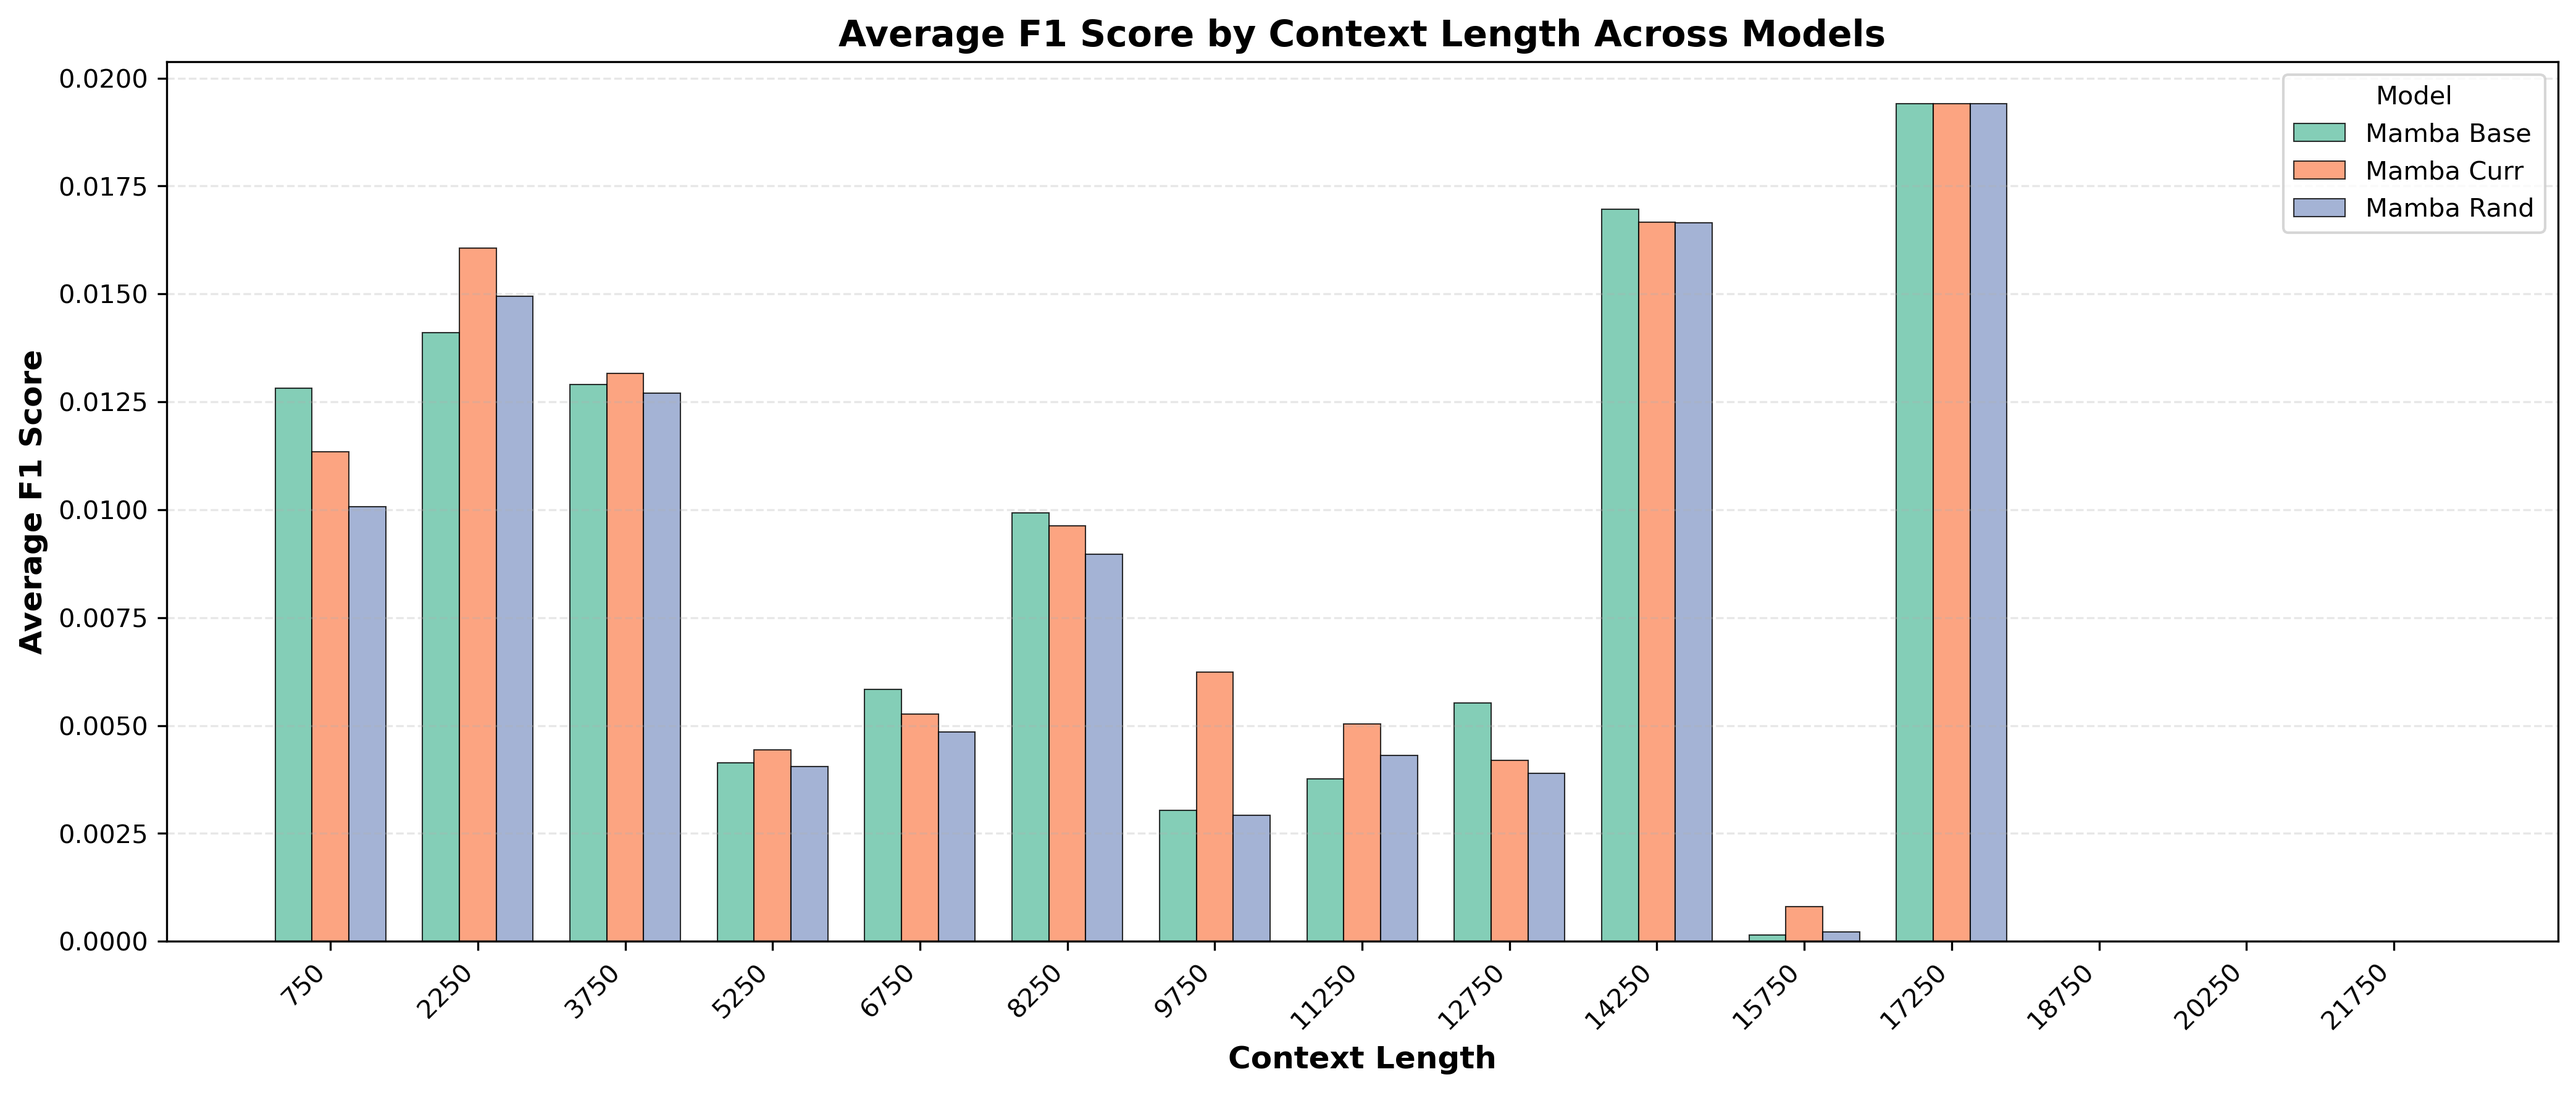
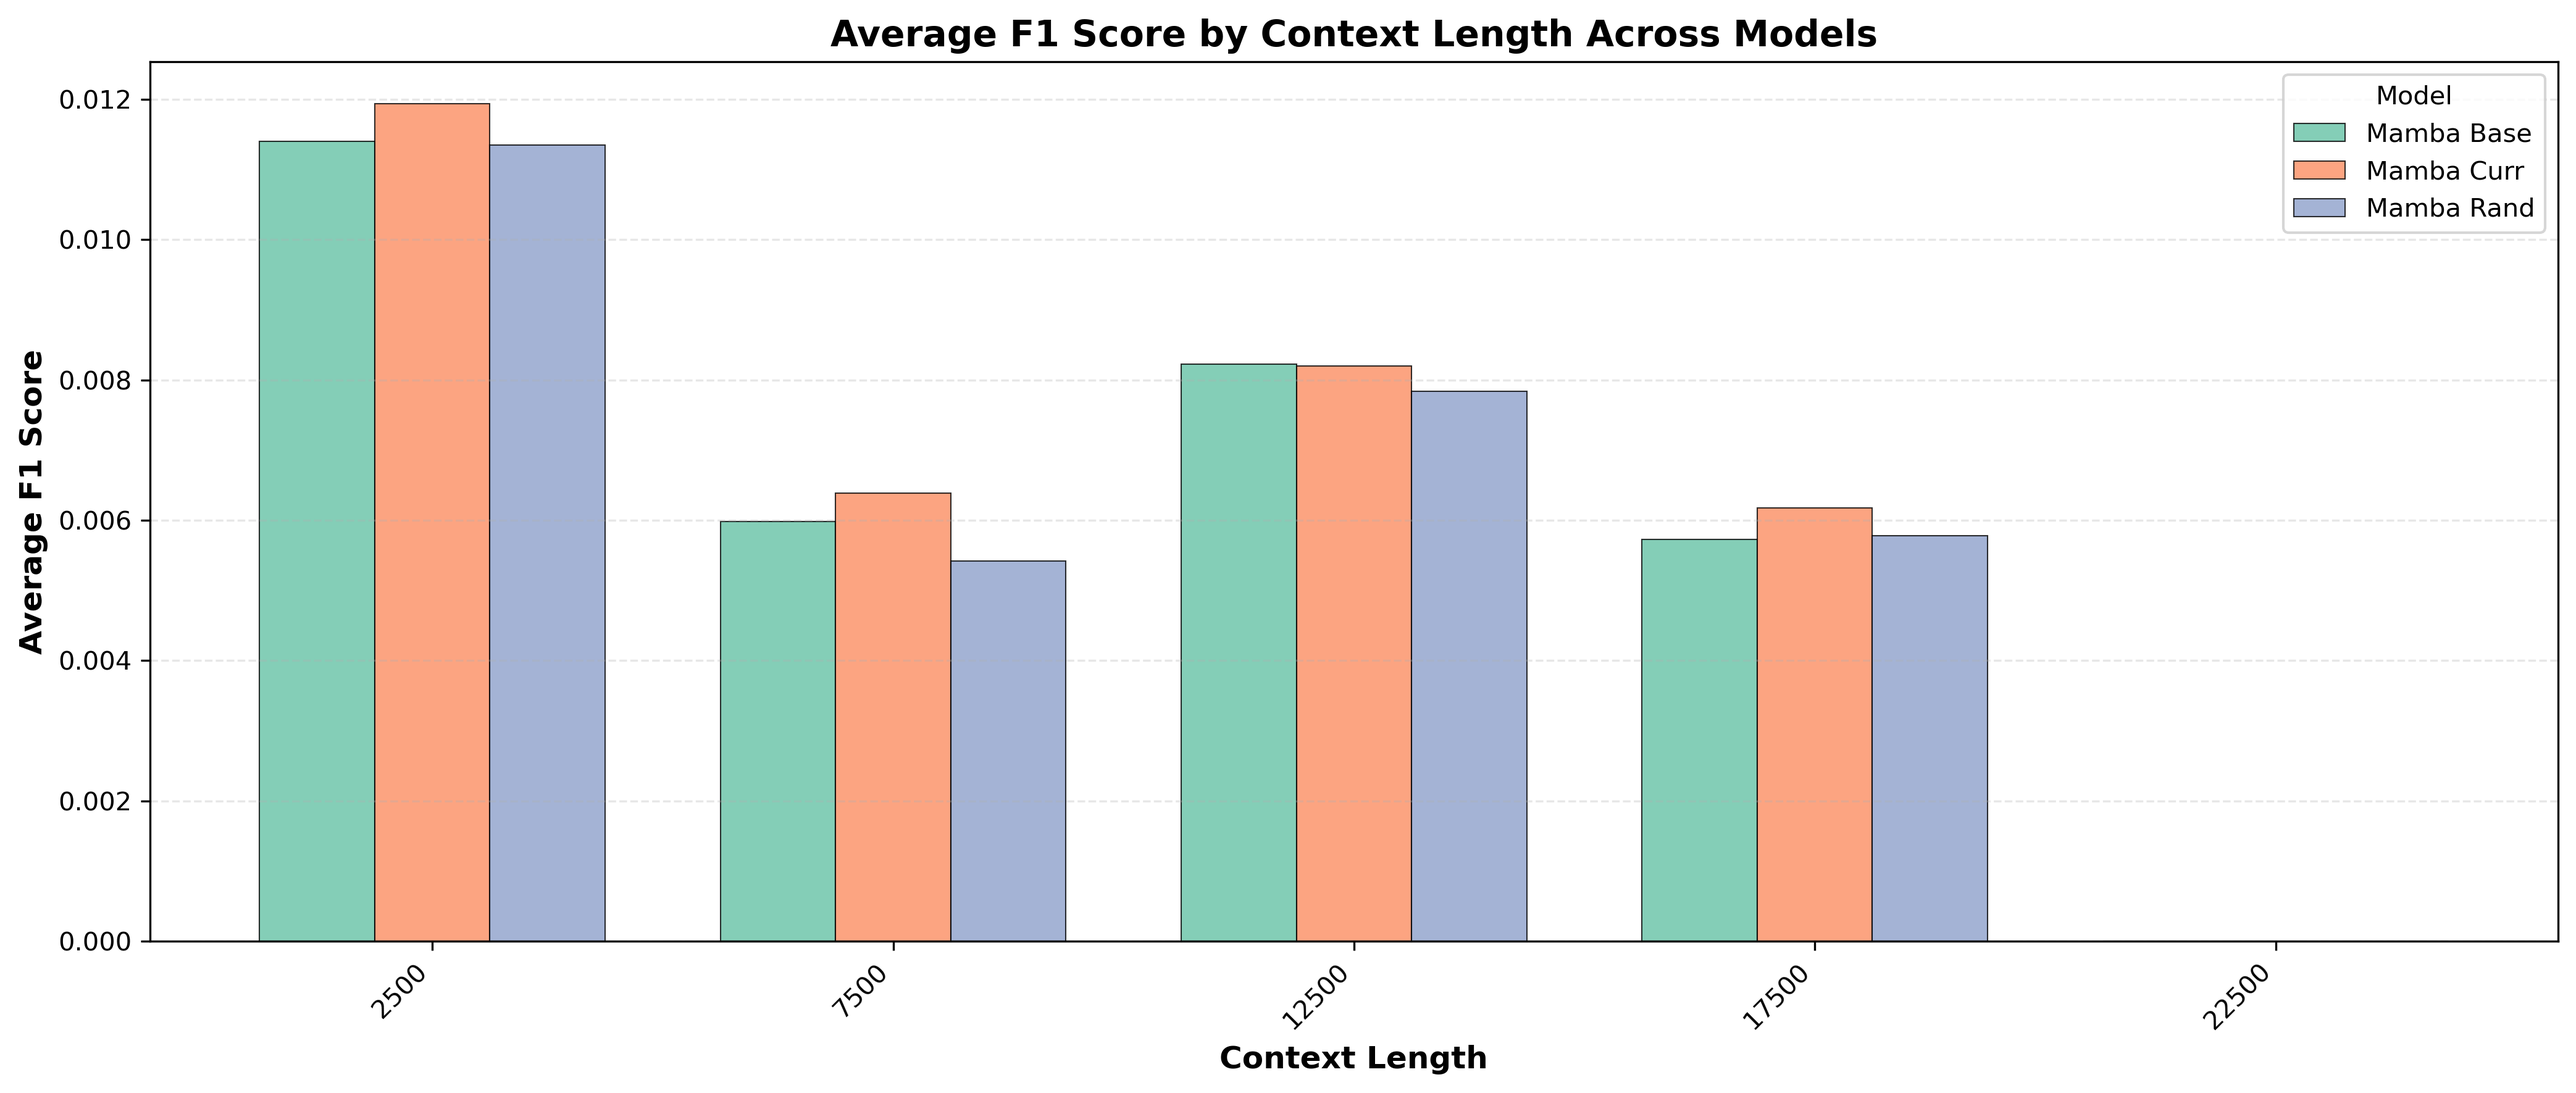
context graphs 3

diff --git a/code/context_graphs_mamba.py b/code/context_graphs_mamba.py
@@ -25,7 +25,7 @@ mrand_df['model'] = 'Mamba Rand'
 mamba_df = pd.concat([mbase_df, mcurr_df, mrand_df], ignore_index=True)
 
 
-bin_size = 1500
+bin_size = 5000
 bins = np.arange(0, mamba_df['context_length'].max() + bin_size, bin_size)
 mamba_df['context_bin'] = pd.cut(mamba_df['context_length'], bins=bins)
 

diff --git a/code/context_graphs_nemo.py b/code/context_graphs_nemo.py
@@ -26,7 +26,7 @@ for model in models:
 
 nemotron_df = pd.concat(all_dfs, ignore_index=True)
 
-bin_size = 1500
+bin_size = 5000
 bins = np.arange(0, nemotron_df['context_length'].max() + bin_size, bin_size)
 nemotron_df['context_bin'] = pd.cut(nemotron_df['context_length'], bins=bins)
 
